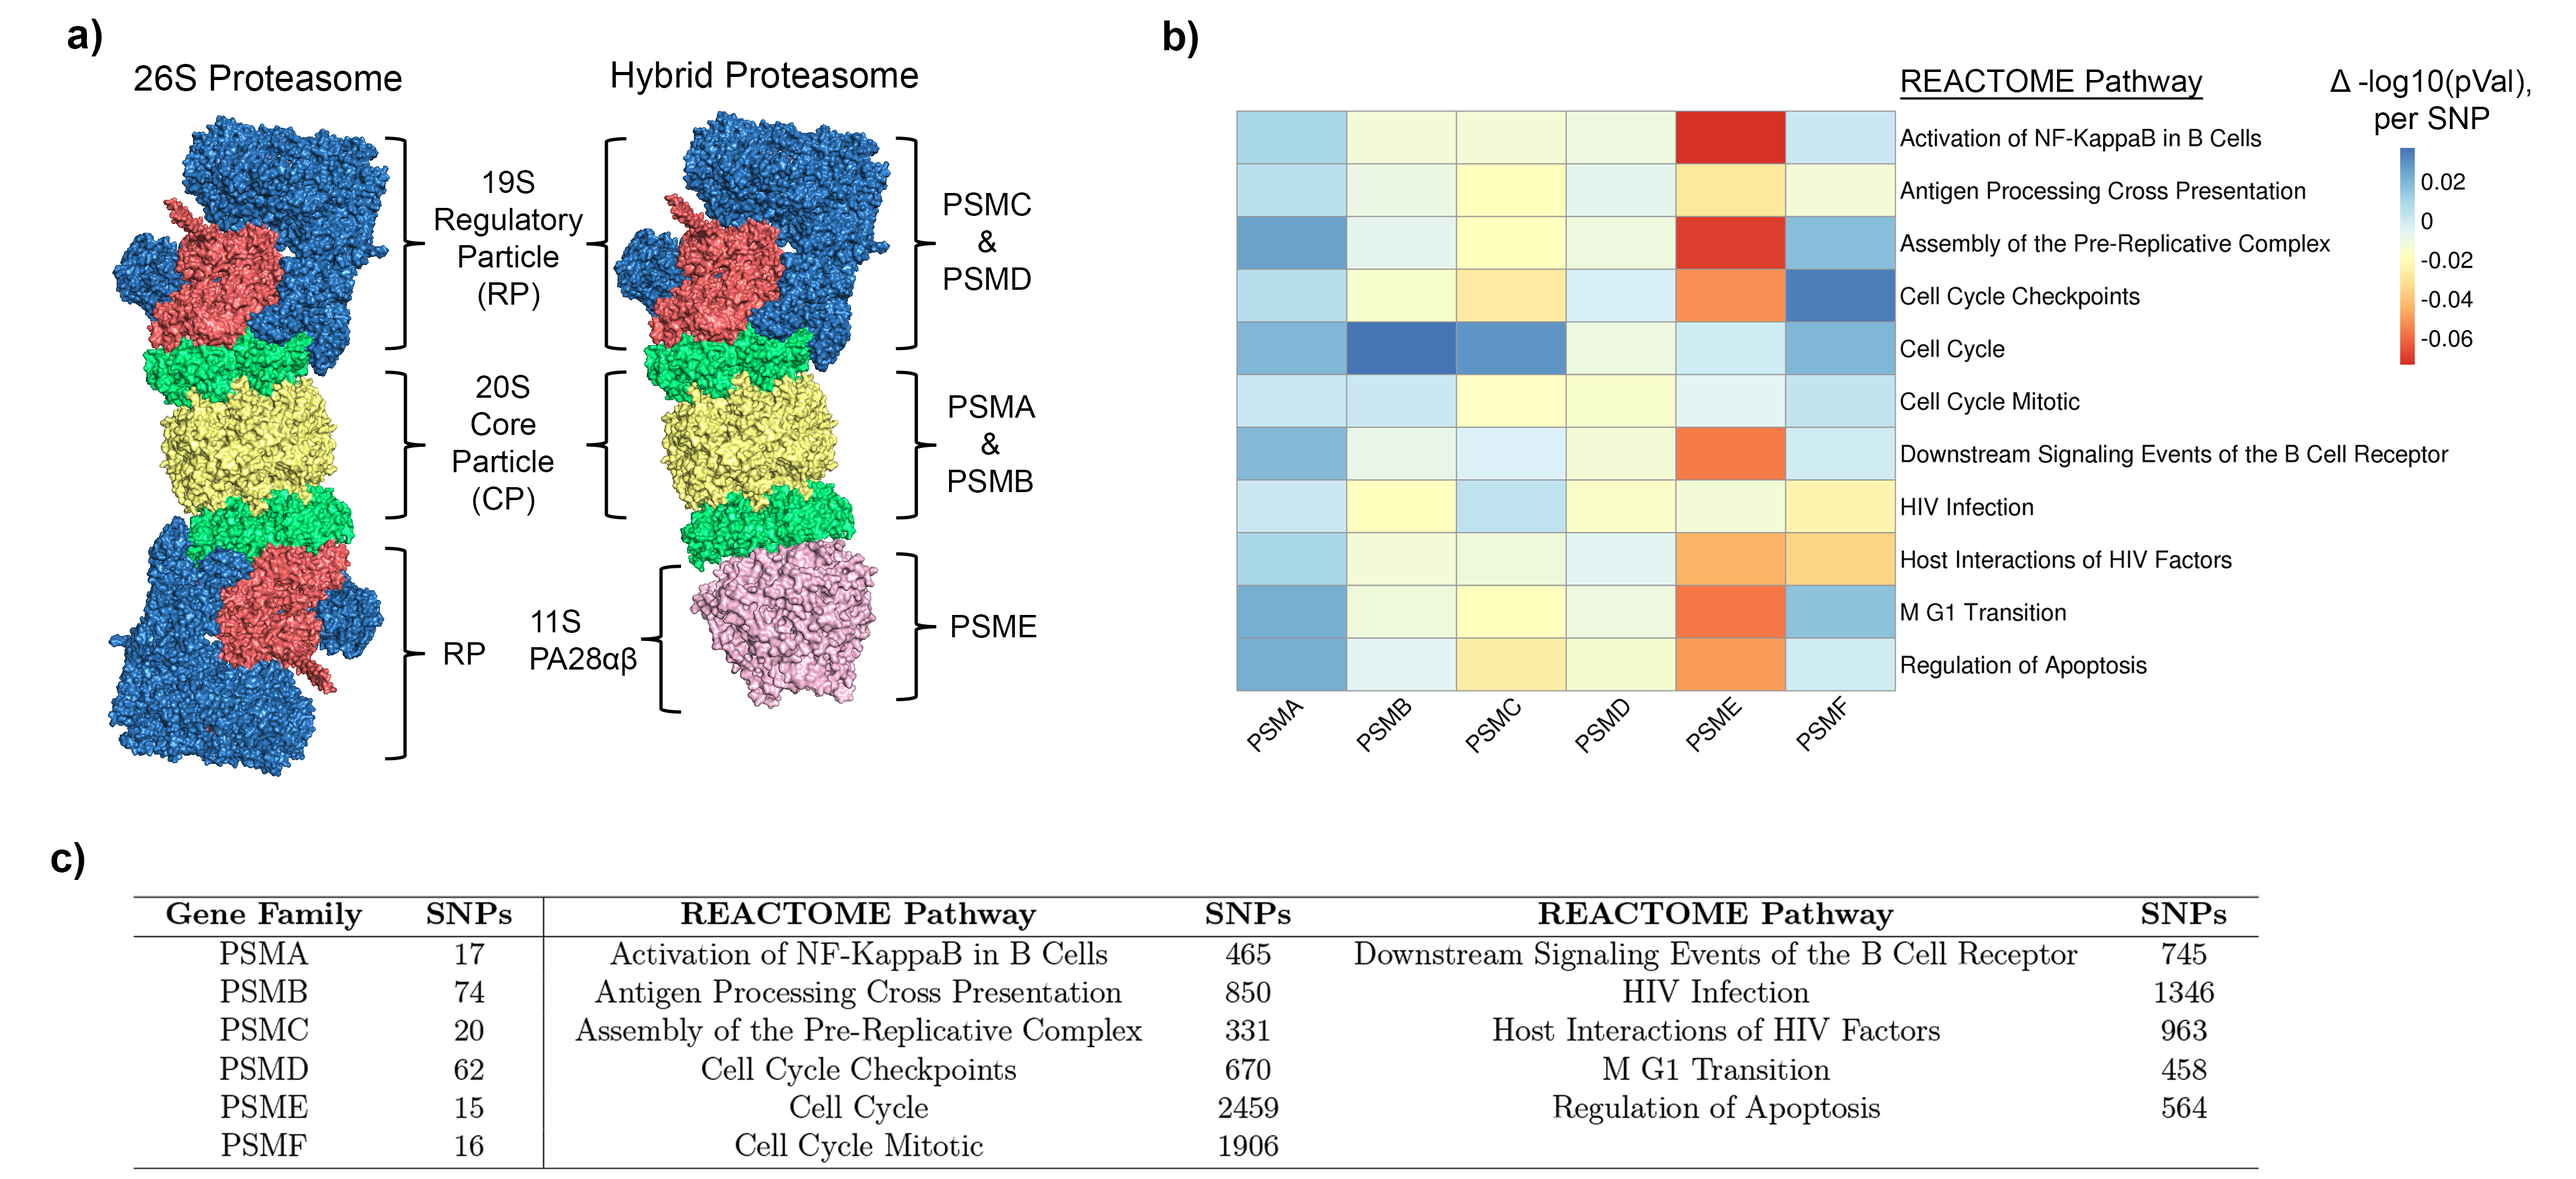
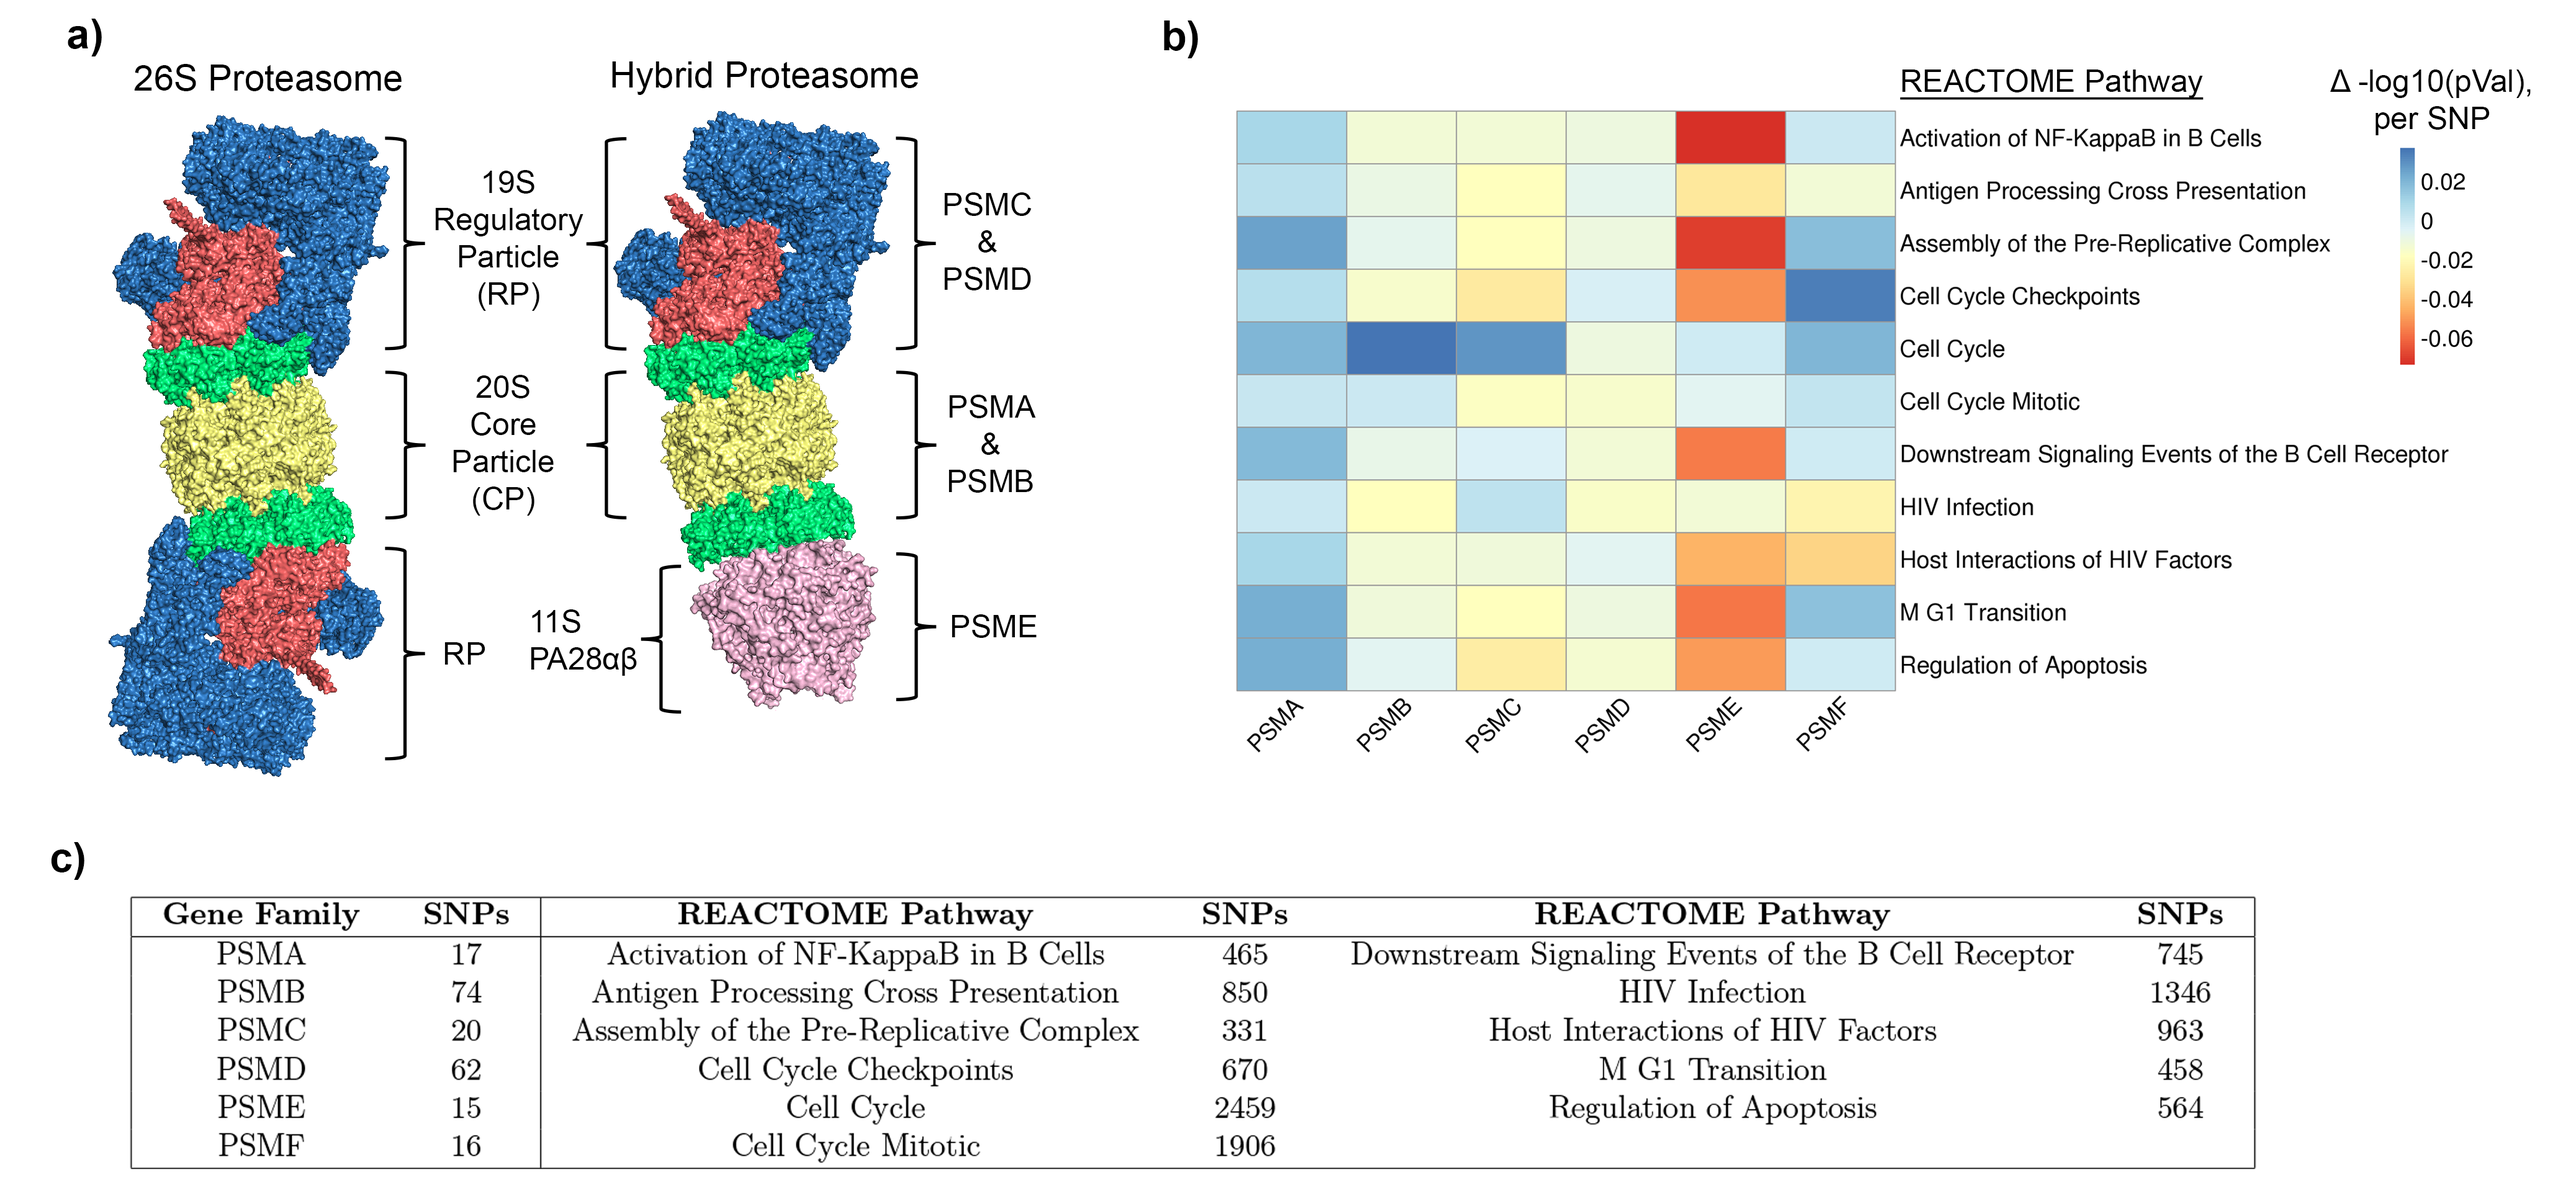
tweaks

diff --git a/Main.tex b/Main.tex
@@ -214,7 +214,7 @@ Algorithmically, detecting statistically significant epistatic signals via genom
 
 To overcome this limitation, more recent computational approaches have expanded the additive GWA framework to aggregate across multiple SNP-level association signals and test for the enrichment of genes and pathways \cite{Subramanian2005,Cantor2010,Wang2010b,Lee2012,Carbonetto2013,Mooney2014,Gamazon2015,de2016,Nakka2016,Zhu2018,Sun2019,Cheng2020}. In Nakka et al. \cite{Nakka2017} we showed that enrichment analyses applied to multiple ancestries can identify genes and gene networks contributing to disease risk that ancestry-specific enrichment analyses fail to find. Recent multiethnic GWA studies have found using non-European populations offers new insight into additive genetic architecture \cite{Martin2017b,Crawford2017b,Duncan2019,Kuchenbaecker2019,Zhong2019,Wojcik2019,Chen2020,Marnetto2020}. Despite this growing body of work, as well as increasing efforts to promote conducting GWA studies in diverse ancestries \cite{Popejoy2016,Martin2018,Martin2019,Gurdasani2019,Sirugo2019,Wojcik2019}, few studies have investigated the role of epistasis in shaping multiethnic human genetic variation (but see \cite{Ma2012,Fish2016,Choquet2018,Hoffmann2018}). Expanding epistasis studies to include non-European ancestries may reveal new understanding of non-additive genetic architecture in human complex traits. 
 
-In this study, our objective is to expand the marginal epistasis framework from individual SNPs to user-specified sets of variants (e.g. genes, signaling pathways) \textcolor{red}{and apply the framework to multiple, diverse human ancestries} . We aim to detect novel interactions between biologically relevant disease mechanisms underlying complex traits and to analyze multiple human ancestries, all while reducing the multiple testing burden that traditionally hinders exhaustive epistatic scans. We implement our new approach in ``MArginal ePIstasis Test for Regions'', which we refer to as MAPIT-R. We apply MAPIT-R using pathway annotations from the ``Kyoto Encyclopedia of Genes and Genomes`` (KEGG) and REACTOME databases \cite{Liberzon2011} to standing height and body mass index (BMI) assayed in individuals from multiple human ancestry ``subgroups'' (British, African, Caribbean, Chinese, Indian, and Pakistani) in the UK Biobank \cite{Sudlow2015}. \textcolor{red}{By analyzing multiple non-European human ancestries we will} study if different genomic backgrounds might reveal varying contributions of epistatic interactions to phenotypic variation. We find more than 200 pathways spanning over all cohorts that have significant marginal epistatic effects on standing height and BMI. We then investigate the distribution of these significant non-additive signals across ancestries, traits, and pathways, finding future directions to prioritize for studies of epistasis in human complex traits.
+In this study, our objective is to expand the marginal epistasis framework from individual SNPs to user-specified sets of variants (e.g. genes, signaling pathways) \textcolor{red}{and apply the framework to multiple, diverse human ancestries} . We aim to detect novel interactions between biologically relevant disease mechanisms underlying complex traits and to analyze multiple human ancestries, all while reducing the multiple testing burden that traditionally hinders exhaustive epistatic scans. We implement our new approach in ``MArginal ePIstasis Test for Regions'', which we refer to as MAPIT-R. We apply MAPIT-R using pathway annotations from the ``Kyoto Encyclopedia of Genes and Genomes`` (KEGG) and REACTOME databases \cite{Liberzon2011} to standing height and body mass index (BMI) assayed in individuals from multiple human ancestry ``subgroups'' (British, African, Caribbean, Chinese, Indian, and Pakistani) in the UK Biobank \cite{Sudlow2015}. \textcolor{red}{By analyzing multiple non-European human ancestries we will} study if different genomic backgrounds reveal varying contributions of epistatic interactions to phenotypic variation. We find more than 200 pathways spanning over all cohorts that have significant marginal epistatic effects on standing height and BMI. We then investigate the distribution of these significant non-additive signals across ancestries, traits, and pathways, finding future directions to prioritize for studies of epistasis in human complex traits.
 
 %%%%%%%%%%%%%%%%%%%%%%%%%%%%%%%%%%%%%%%%%%%%%%%%%%%
 
@@ -278,7 +278,7 @@ We applied MAPIT-R to height and body mass index (BMI) to detect pathways from t
 
 Applying MAPIT-R to height and BMI within each ancestry subgroups, we find a total of 245 enriched pathways that have genome-wide significant signals for marginal epistatic interactions with the rest of the genome (Figure \ref{MAPITR-Main-Figure-Barplots-KEGG}, Supplementary Figure \ref{MAPITR-Supp-Figure-Barplots-REACTOME}, and Supplementary Table \ref{MAPITR-Supp-Table-TopPathways}) Here, $p$-value significance thresholds were determined by using Bonferroni correction based on the number of pathways tested per analysis (see Supplementary Table \ref{MAPITR-Supp-Table-UKBPopStats}). Overall, a similar number of pathways were statistically enriched between the KEGG and REACTOME databases (130 and 115, respectively); however, we find that BMI yields more non-additive genetic signal than height (155 versus 90 significant pathways, respectively). Most notably, the majority of our results occurred within the African subgroup of the data: 165 out of 245 significant pathways across all analyses. Indeed, our findings across each ancestry-specific subgroup overlap with results from other work showing evidence for the importance of epistasis in human immunity, particularly involving the Major Histocompatibility Complex (MHC) \cite{Martin2002,Williams2005,Wan2010,Rose2012,Lareau2016,Opi2018,Zhang2019}, as well as the key roles metabolic processes and cellular signaling play in trait architecture for model systems \cite{Segre2005,Snitkin2011,Podgornaia2015,Sorrells2015,Tyler2017,Nghe2018,Jiao2019}. 
 
-The enriched pathways for the African subgroup represent multiple biologically relevant themes in both height and BMI (Table \ref{MAPITR-Main-Table-KEGG-African-TopPathways-Themes} and Supplementary Table \ref{MAPITR-Supp-Table-TopPathways}). When analyzing height with annotations from the KEGG database, we find that most of the statistically significant marginal epistatic interactions occur in pathways related to canonical signaling cascades, functions within the immune system, and sets of genes that affect heart conditions. \textcolor{red}{Previous multiethnic GWA studies of height have found additive associations within cytokine genes \cite{Marouli2017} and WNT/beta-catenin signaling \cite{Wood2014b}. Results from MAPIT-R suggest that non-additive interactions involving cytokine receptors ($p$-value $= 2.84\times 10^{-8}$) and genes within the WNT-signaling pathway} ($p$-value $= 6.54\times 10^{-6}$) also contribute to the complex genetic architecture of height as well. In BMI, we find similar themes, as well as multiple statistically significant signals from metabolic pathways (Table \ref{MAPITR-Main-Table-KEGG-African-TopPathways-Themes}). \textcolor{red}{Notably, MAPIT-R identified pathways related to} ErbB signaling ($p$-value $= 3.30\times 10^{-7}$) and ether lipid metabolism ($p$-value $= 1.41\times 10^{-4}$) as having significant marginal epistatic effect --- \textcolor{red}{both of which have} also been shown to have additive associations with BMI as well \cite{Locke2015,Salinas2016,Jha2018}. 
+The enriched pathways for the African subgroup represent multiple biologically relevant themes in both height and BMI (Table \ref{MAPITR-Main-Table-KEGG-African-TopPathways-Themes} and Supplementary Table \ref{MAPITR-Supp-Table-TopPathways}). When analyzing height with annotations from the KEGG database, we find that most of the statistically significant marginal epistatic interactions occur in pathways related to canonical signaling cascades, functions within the immune system, and sets of genes that affect heart conditions. \textcolor{red}{Previous multiethnic GWA studies of height have found additive associations with cytokine genes \cite{Marouli2017} and WNT/beta-catenin signaling \cite{Wood2014b}. Results from MAPIT-R suggest that non-additive interactions involving cytokine receptors ($p$-value $= 2.84\times 10^{-8}$) and genes within the WNT-signaling pathway} ($p$-value $= 6.54\times 10^{-6}$) also contribute to the complex genetic architecture of height as well. In BMI, we find similar themes, as well as multiple statistically significant signals from metabolic pathways (Table \ref{MAPITR-Main-Table-KEGG-African-TopPathways-Themes}). \textcolor{red}{Notably, MAPIT-R identified pathways related to} ErbB signaling ($p$-value $= 3.30\times 10^{-7}$) and ether lipid metabolism ($p$-value $= 1.41\times 10^{-4}$) as having significant marginal epistatic effect --- \textcolor{red}{both of which have} also been shown to have additive associations with BMI as well \cite{Locke2015,Salinas2016,Jha2018}. 
 
 It is important to note that, in our analyses, the African subgroup has neither the largest sample size nor the largest number of SNPs following quality control (Supplementary Table \ref{MAPITR-Supp-Table-UKBPopStats}). Thus, to investigate the power of MAPIT-R and its sensitivity to underlying parameters, we conducted simulation studies under a range of genetic architectures. Here, we found that MAPIT-R both controls type 1 error accurately and also has the power to effectively detect pathway level marginal epistasis, even for polygenic traits where the contribution from individual SNPs to the broad-sense heritability of a trait can be quite low (\textcolor{red}{Supplementary Figure \ref{MAPITR-Supp-Figure-Simulations-pt1}}) \cite{Crawford2017a}. We also ran versions of MAPIT-R on the real data, but with permuted phenotypes, to ensure that the model was not identifying significant non-additive genetic relationships by chance (Supplementary Figures \ref{MAPITR-Supp-Figure-Perms-QQPlots} and \ref{MAPITR-Supp-Figure-Perms-pValHists}). These permutations allowed us to investigate MAPIT-R's false discovery rates, in which we observe values only as high as 1.5\% across our different database-phenotype-subgroup combinations at multiple significance thresholds (Supplementary Table \ref{MAPITR-Supp-Table-AllPops-FDRs}).
 

diff --git a/Scrap/OtherMisc.tex b/Scrap/OtherMisc.tex
@@ -249,7 +249,7 @@ PSMF & 16 & Cell Cycle Mitotic & 1906 \\
 \centering
 \hspace*{-3.5cm}
 \setlength{\tabcolsep}{1em}
-\begin{tabular}{cc|cccc}
+\begin{tabular}{|cc|cccc|}
   \hline
 \textbf{Gene Family} & \textbf{SNPs} & \textbf{REACTOME Pathway} & \textbf{SNPs} & \textbf{REACTOME Pathway} & \textbf{SNPs} \\
   \hline
